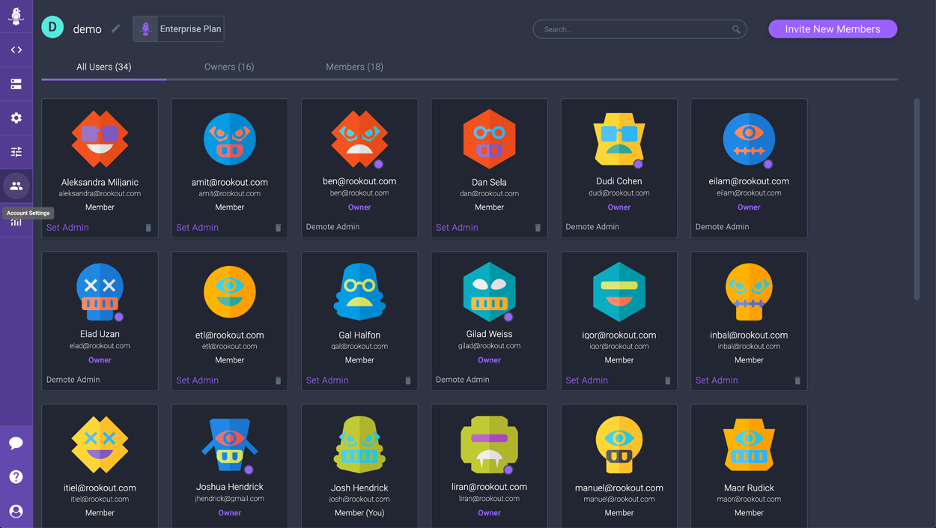
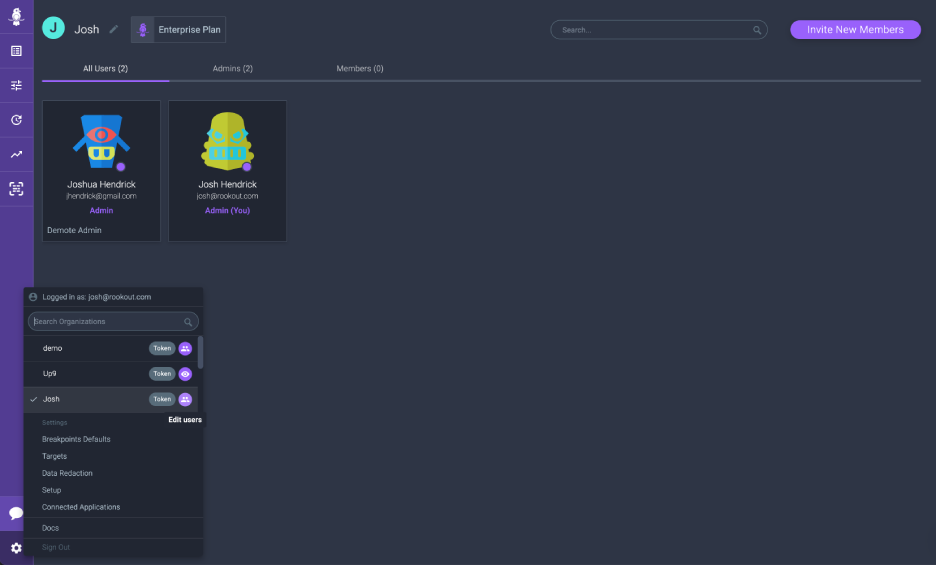
Updated screenshot and user config information (#671)

diff --git a/docs/organizations.md b/docs/organizations.md
@@ -6,7 +6,7 @@ Rookout Organizations are a way to group all of your applications and developers
 
 When you first sign up for Rookout you’ll be prompted to provide a name for your organization. Most teams will choose to use their company name, team name, business unit, or a combination of those things to provide a unique organization name.
 
-By clicking on the **Account Settings** button on the left hand menu you can access your organization settings.
+By clicking on the **Settings** button on the left hand menu and then clicking the **Edit Users** button, you can access your user configuration screen.
 
 <img src="/img/screenshots/rookout_organizations.png" />
 
